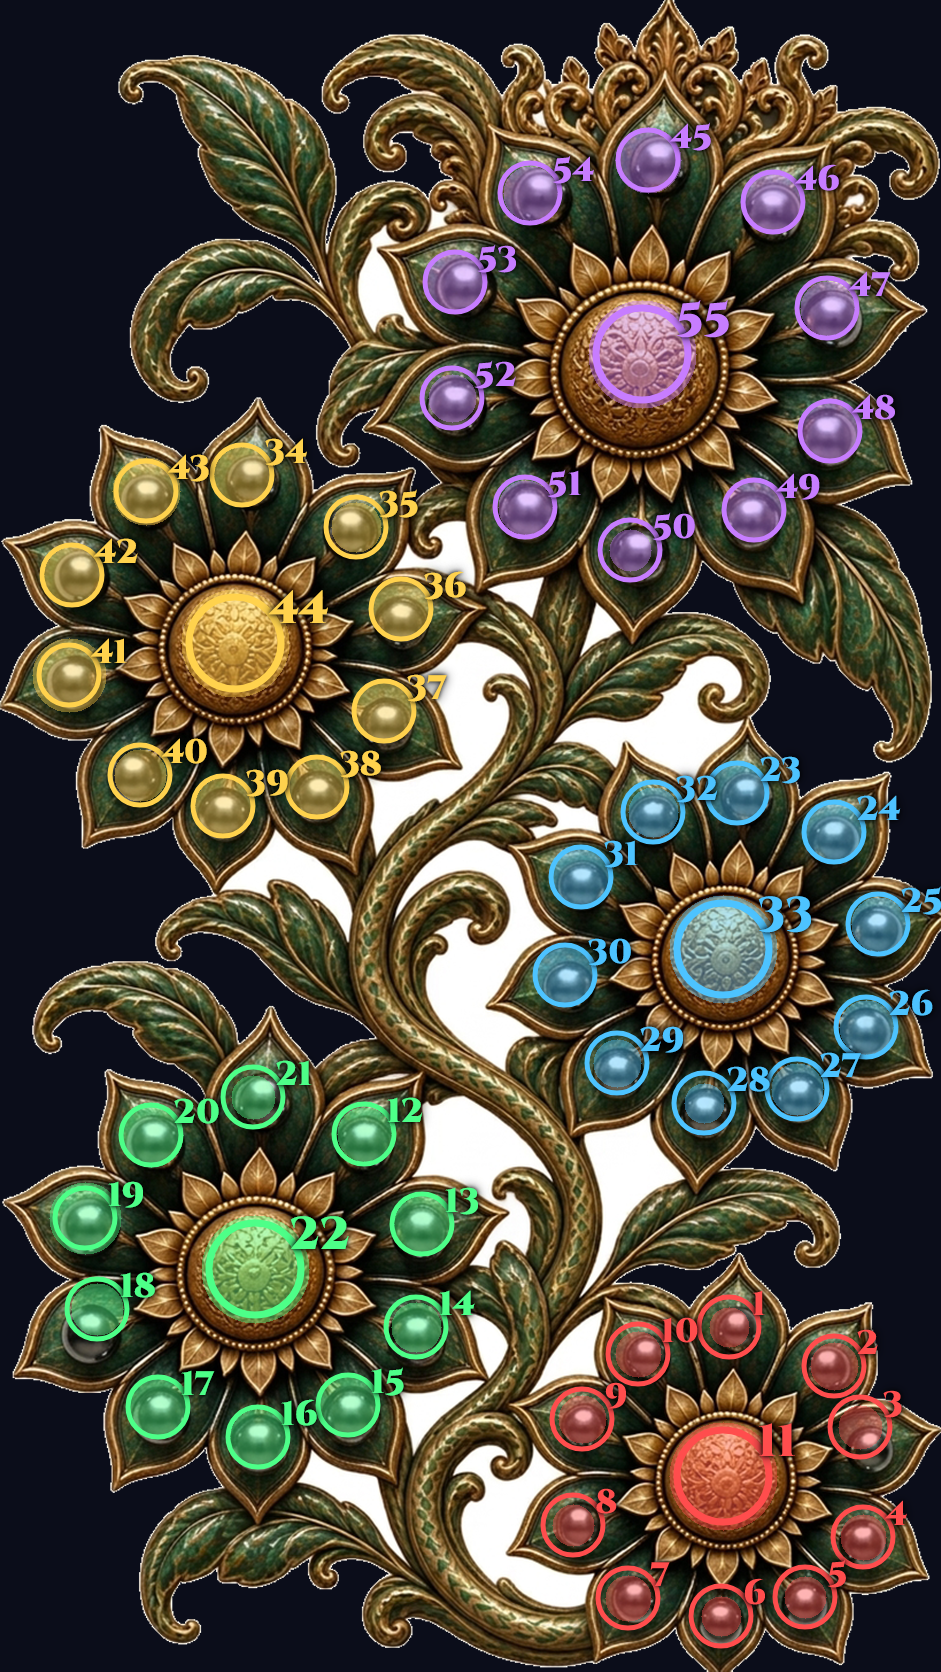
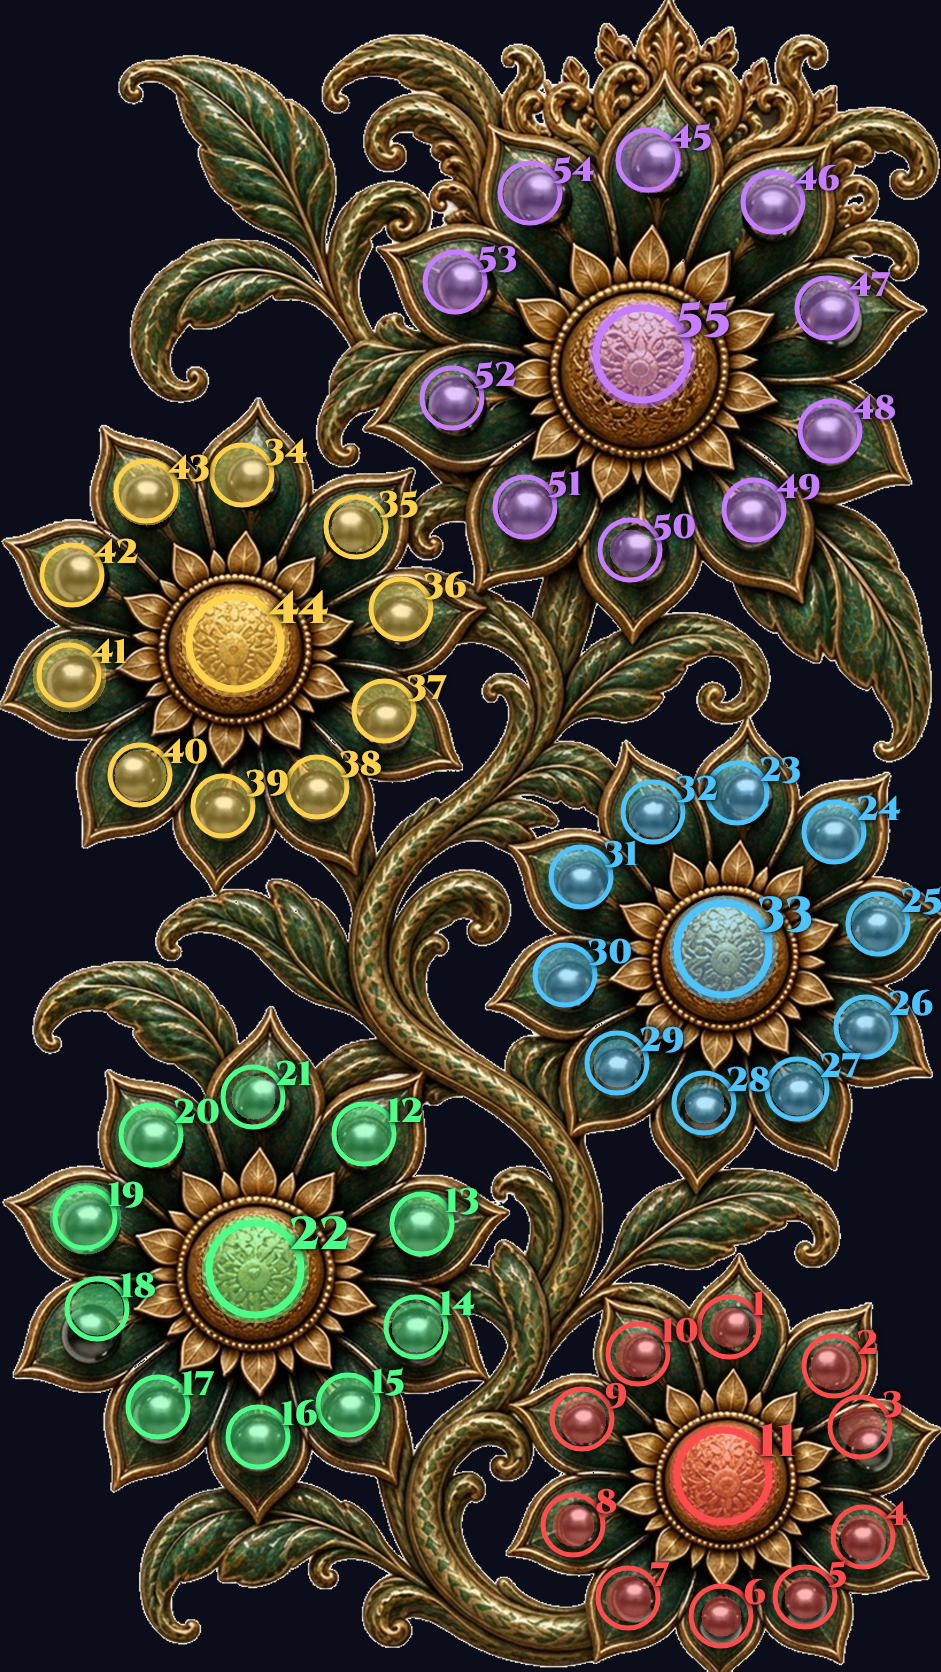
AF.01: le sacche bianche spariscono, e i riflessi restano
DECISIONE DI MAURO: trasparenza vera anche fra gli steli. Lo scontorno adesso
rende trasparenti anche le regioni bianche chiuse dentro l'arte, con la
protezione dei cinquantacinque dischi: dentro un disco non si tocca niente.

I CONTI SI CHIUDONO DA SOLI: 66 sacche rese trasparenti per 56.266 pixel del
sorgente, 50 regioni risparmiate perche' toccano un disco, e 66 piu' 50 fa 116,
che e' esattamente il censimento delle componenti bianche chiuse fatto
dall'ordine AE. Le 50 risparmiate sono i riflessi delle perle, uno per perla.

IL CRITERIO E LA SOGLIA, dichiarati: bianco di sfondo e' canale minimo sopra
235, la stessa soglia dell'inondazione; una regione chiusa e' sfondo quando
nessun suo pixel tocca un disco. La trasparenza sale dal 25,11 al 29,55 per
cento. Zero pixel resi trasparenti dentro i dischi.

LA GUARDIA SUI TRE FATTI in le_sacche_del_loto_sono_sparite_test: zero sacche
sopra i cento pixel fuori dai dischi, almeno quaranta riflessi risparmiati nei
dischi, zero trasparenti dentro i dischi. La soglia dei cento viene da un
baratro misurato: i lustrini d'arte residui arrivano a 13 pixel, le sacche vere
partivano da 839.

PROVA DEL ROSSO rimettendo l'arte con le sacche, verificata col conteggio dei
trasparenti prima di leggere: la guardia cade nominando 18 sacche con le
coordinate. Ripristinata l'arte nuova, tutto verde, e il dato delle forme si
rigenera con gli stessi numeri.

diff --git a/test/le_sacche_del_loto_sono_sparite_test.dart b/test/le_sacche_del_loto_sono_sparite_test.dart
@@ -1,0 +1,158 @@
+import 'dart:io';
+import 'dart:ui' as ui;
+
+import 'package:flutter_test/flutter_test.dart';
+
+/// LE SACCHE BIANCHE DEL LOTO SONO SPARITE. Ordine AF voce 01.
+///
+/// **Il difetto, visto da Mauro.** Lo scontorno per inondazione dal bordo non
+/// raggiunge il bianco chiuso dentro l'arte: fra i petali e gli steli restavano
+/// sacche di fondo bianco OPACHE, e sul fondo scuro dell'app si vedevano forte.
+/// Adesso lo strumento le rende trasparenti, con una protezione: dentro i
+/// cinquantacinque dischi delle perle e dei centri non si tocca niente, perche'
+/// i riflessi sono bianchi anche loro e sono arte.
+///
+/// **La soglia dei cento pixel viene da un baratro misurato, non da una
+/// scelta**: i lustrini d'arte residui (riflessi sull'oro, bordi ricampionati)
+/// misurano al massimo 13 pixel, le sacche vere partivano da 839. Cento sta nel
+/// mezzo e non tocca nessuna delle due popolazioni.
+void main() {
+  const arte = 'brand_assets/sentieri/loto.png';
+  const pallini = 'brand_assets/sentieri/loto_pallini.png';
+  const sogliaDelBianco = 235;
+  const saccaMinima = 100;
+
+  Future<(int, int, List<int>)> apri(String file) async {
+    final byte = await File(file).readAsBytes();
+    final codice = await ui.instantiateImageCodec(byte);
+    final immagine = (await codice.getNextFrame()).image;
+    final dati = (await immagine.toByteData(format: ui.ImageByteFormat.rawRgba))!
+        .buffer
+        .asUint8List();
+    return (immagine.width, immagine.height, dati);
+  }
+
+  testWidgets('nessuna sacca bianca opaca fuori dai dischi delle perle',
+      (tester) async {
+    // **DENTRO runAsync**, perche' il codec completa sul tempo vero.
+    await tester.runAsync(() async {
+      final (w, h, px) = await apri(arte);
+      final (pw, ph, pp) = await apri(pallini);
+      expect((pw, ph), (w, h),
+          reason: 'arte e pallini hanno misure diverse: i dischi non valgono');
+
+      bool chiara(int q) {
+        final i = q * 4;
+        if (px[i + 3] <= 128) return false;
+        final minimo = [px[i], px[i + 1], px[i + 2]]
+            .reduce((a, b) => a < b ? a : b);
+        return minimo >= sogliaDelBianco;
+      }
+
+      // L'inondazione dal perimetro: cio' che resta e' chiuso dentro l'arte.
+      final visto = List<bool>.filled(w * h, false);
+      final coda = <int>[];
+      void semina(int x, int y) {
+        final q = y * w + x;
+        if (chiara(q) && !visto[q]) {
+          visto[q] = true;
+          coda.add(q);
+        }
+      }
+
+      for (var x = 0; x < w; x++) {
+        semina(x, 0);
+        semina(x, h - 1);
+      }
+      for (var y = 0; y < h; y++) {
+        semina(0, y);
+        semina(w - 1, y);
+      }
+      while (coda.isNotEmpty) {
+        final q = coda.removeLast();
+        final x = q % w, y = q ~/ w;
+        for (final d in const [
+          [1, 0],
+          [-1, 0],
+          [0, 1],
+          [0, -1]
+        ]) {
+          final nx = x + d[0], ny = y + d[1];
+          if (nx < 0 || ny < 0 || nx >= w || ny >= h) continue;
+          final n = ny * w + nx;
+          if (chiara(n) && !visto[n]) {
+            visto[n] = true;
+            coda.add(n);
+          }
+        }
+      }
+
+      // Le regioni chiare chiuse: sopra la soglia e fuori dai dischi = sacca.
+      var sacche = 0;
+      var risparmiateNeiDischi = 0;
+      final esempi = <String>[];
+      for (var q = 0; q < w * h; q++) {
+        if (!chiara(q) || visto[q]) continue;
+        visto[q] = true;
+        final pila = <int>[q];
+        var quanti = 0;
+        var toccaUnDisco = false;
+        var cx = 0, cy = 0;
+        while (pila.isNotEmpty) {
+          final t = pila.removeLast();
+          quanti++;
+          cx += t % w;
+          cy += t ~/ w;
+          if (pp[t * 4 + 3] > 128) toccaUnDisco = true;
+          final x = t % w, y = t ~/ w;
+          for (final d in const [
+            [1, 0],
+            [-1, 0],
+            [0, 1],
+            [0, -1]
+          ]) {
+            final nx = x + d[0], ny = y + d[1];
+            if (nx < 0 || ny < 0 || nx >= w || ny >= h) continue;
+            final n = ny * w + nx;
+            if (chiara(n) && !visto[n]) {
+              visto[n] = true;
+              pila.add(n);
+            }
+          }
+        }
+        if (toccaUnDisco) {
+          risparmiateNeiDischi++;
+        } else if (quanti >= saccaMinima) {
+          sacche++;
+          if (esempi.length < 5) {
+            esempi.add('$quanti pixel a (${cx ~/ quanti},${cy ~/ quanti})');
+          }
+        }
+      }
+
+      // **ZERO PIXEL TRASPARENTI DENTRO I DISCHI**: la protezione dei riflessi.
+      var toltiNeiDischi = 0;
+      for (var q = 0; q < w * h; q++) {
+        if (px[q * 4 + 3] == 0 && pp[q * 4 + 3] > 128) toltiNeiDischi++;
+      }
+
+      // **QUANTE OSSERVAZIONI, e cade se il quadro e' irriconoscibile.**
+      // ignore: avoid_print
+      print('ORDINE AF VOCE 01: sacche sopra $saccaMinima pixel: $sacche, '
+          'regioni risparmiate nei dischi: $risparmiateNeiDischi, pixel '
+          'trasparenti nei dischi: $toltiNeiDischi');
+      expect(risparmiateNeiDischi, greaterThanOrEqualTo(40),
+          reason: 'i riflessi delle perle risparmiati sono '
+              '$risparmiateNeiDischi: se fossero pochi, o i dischi sono nel '
+              'posto sbagliato o i riflessi sono stati mangiati');
+      expect(sacche, 0,
+          reason: 'restano $sacche sacche di fondo bianco opache fuori dai '
+              'dischi: ${esempi.join(" | ")}. Sul fondo scuro dell\'app si '
+              'vedono, ed e\' il difetto che Mauro ha indicato per primo');
+      expect(toltiNeiDischi, 0,
+          reason: 'lo scontorno ha reso trasparenti $toltiNeiDischi pixel '
+              'DENTRO i dischi delle perle: i riflessi sono arte e non si '
+              'toccano');
+    });
+  });
+}

diff --git a/tool/scontorna_loto.py b/tool/scontorna_loto.py
@@ -63,6 +63,61 @@ while coda:
 print(f'soglia {SOGLIA}: pixel resi trasparenti {resi} su {w*h} '
       f'({100*resi/(w*h):.1f} per cento)')
 
+# **ANCHE LE SACCHE CHIUSE SPARISCONO.** Ordine AF voce 01, decisione di Mauro:
+# trasparenza vera anche fra gli steli. L'inondazione dal bordo non raggiunge il
+# bianco chiuso dentro l'arte, quindi le regioni bianche interne si rendono
+# trasparenti anch'esse, CON UNA PROTEZIONE: dentro i cinquantacinque dischi
+# delle perle e dei centri non si tocca niente, perche' i riflessi sono bianchi
+# anche loro e sono arte. I dischi si leggono da loto_pallini.png, che le
+# coordinate le porta gia': una seconda lettura dello stesso dato, non una
+# seconda porta.
+#
+# Il criterio con cui una regione interna e' detta SFONDO: stessa soglia
+# dell'inondazione, canale minimo sopra 235, e nessun pixel della regione dentro
+# un disco. Una regione bianca che tocca un disco e' un riflesso che sborda, e
+# si lascia stare.
+import os
+if os.path.exists('brand_assets/sentieri/loto_pallini.png'):
+    pal = Image.open('brand_assets/sentieri/loto_pallini.png').convert('RGBA')
+    # il pallini e' alla misura FINALE: si riporta alla misura del sorgente
+    pal = pal.resize((w, h), Image.NEAREST)
+    palp = pal.tobytes()
+    def nel_disco(q):
+        return palp[q * 4 + 3] > 128
+    sacche = celle_tolte = toccate = 0
+    for q in range(w * h):
+        if not bianco(q) or visto[q]:
+            continue
+        visto[q] = 1
+        pila = [q]
+        celle = []
+        tocca = False
+        while pila:
+            t = pila.pop()
+            celle.append(t)
+            if nel_disco(t):
+                tocca = True
+            x, y = t % w, t // w
+            for dx, dy in ((1, 0), (-1, 0), (0, 1), (0, -1)):
+                nx, ny = x + dx, y + dy
+                if 0 <= nx < w and 0 <= ny < h:
+                    n = ny * w + nx
+                    if not visto[n] and bianco(n):
+                        visto[n] = 1
+                        pila.append(n)
+        if tocca:
+            toccate += 1
+            continue
+        sacche += 1
+        for t in celle:
+            px[t * 4 + 3] = 0
+        celle_tolte += len(celle)
+    print(f'sacche interne rese trasparenti: {sacche} regioni, '
+          f'{celle_tolte} pixel; regioni risparmiate perche\' toccano un '
+          f'disco: {toccate}')
+else:
+    print('loto_pallini.png assente: il passo delle sacche interne e\' saltato')
+
 pronta = Image.frombytes('RGBA', (w, h), bytes(px))
 pronta = pronta.resize(MISURA_FINALE, Image.LANCZOS)
 

diff --git a/docs/ordini/ORDINE_AF_MANIFESTO.md b/docs/ordini/ORDINE_AF_MANIFESTO.md
@@ -40,7 +40,7 @@ mirate durante le voci, suite intera UNA volta sola in fondo prima del push.
 
 ## Le cinque voci
 
-- **AF.01** Le sacche bianche spariscono — APERTA
+- **AF.01** Le sacche bianche spariscono — CHIUSA
 - **AF.02** La lampadina — APERTA
 - **AF.03** La lampadina si accende davvero al traguardo — APERTA
 - **AF.04** Le perle si chiamano perle — APERTA
@@ -49,7 +49,7 @@ mirate durante le voci, suite intera UNA volta sola in fondo prima del push.
 ## I marcatori, contati sulle righe
 
 VOCI_TOTALI: 5
-VOCI_APERTE: 5
-VOCI_CHIUSE: 0
+VOCI_APERTE: 4
+VOCI_CHIUSE: 1
 VOCI_FERMATE_SU_PREMESSA_FALSA: 0
 VOCI_FERMATE_IN_ATTESA_DI_DECISIONE: 0
